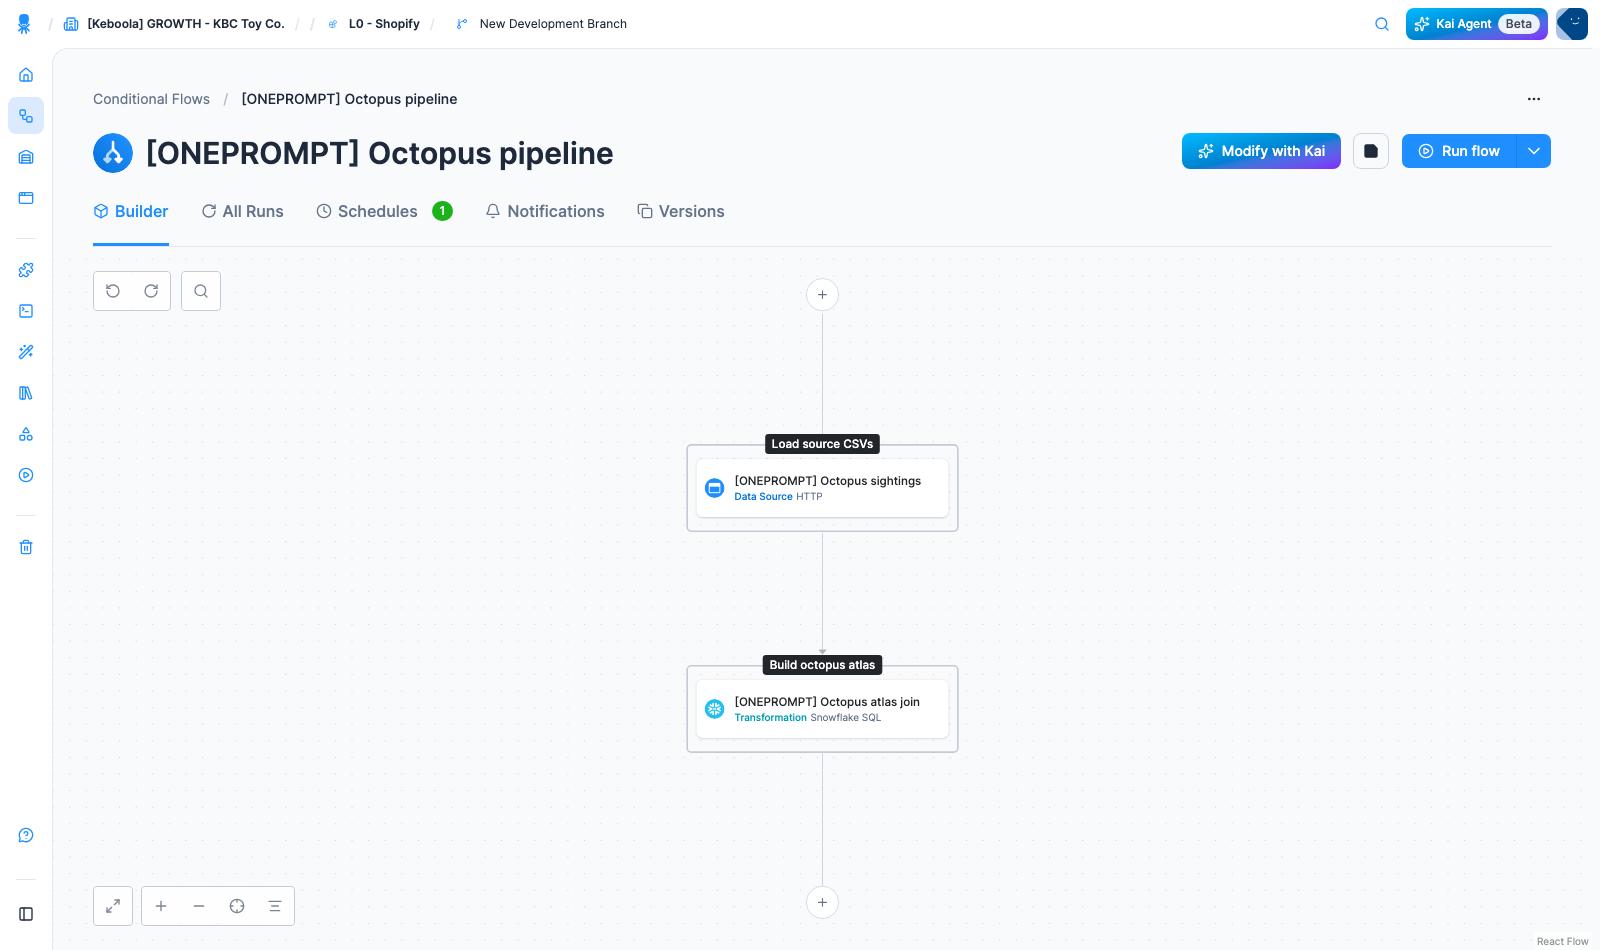
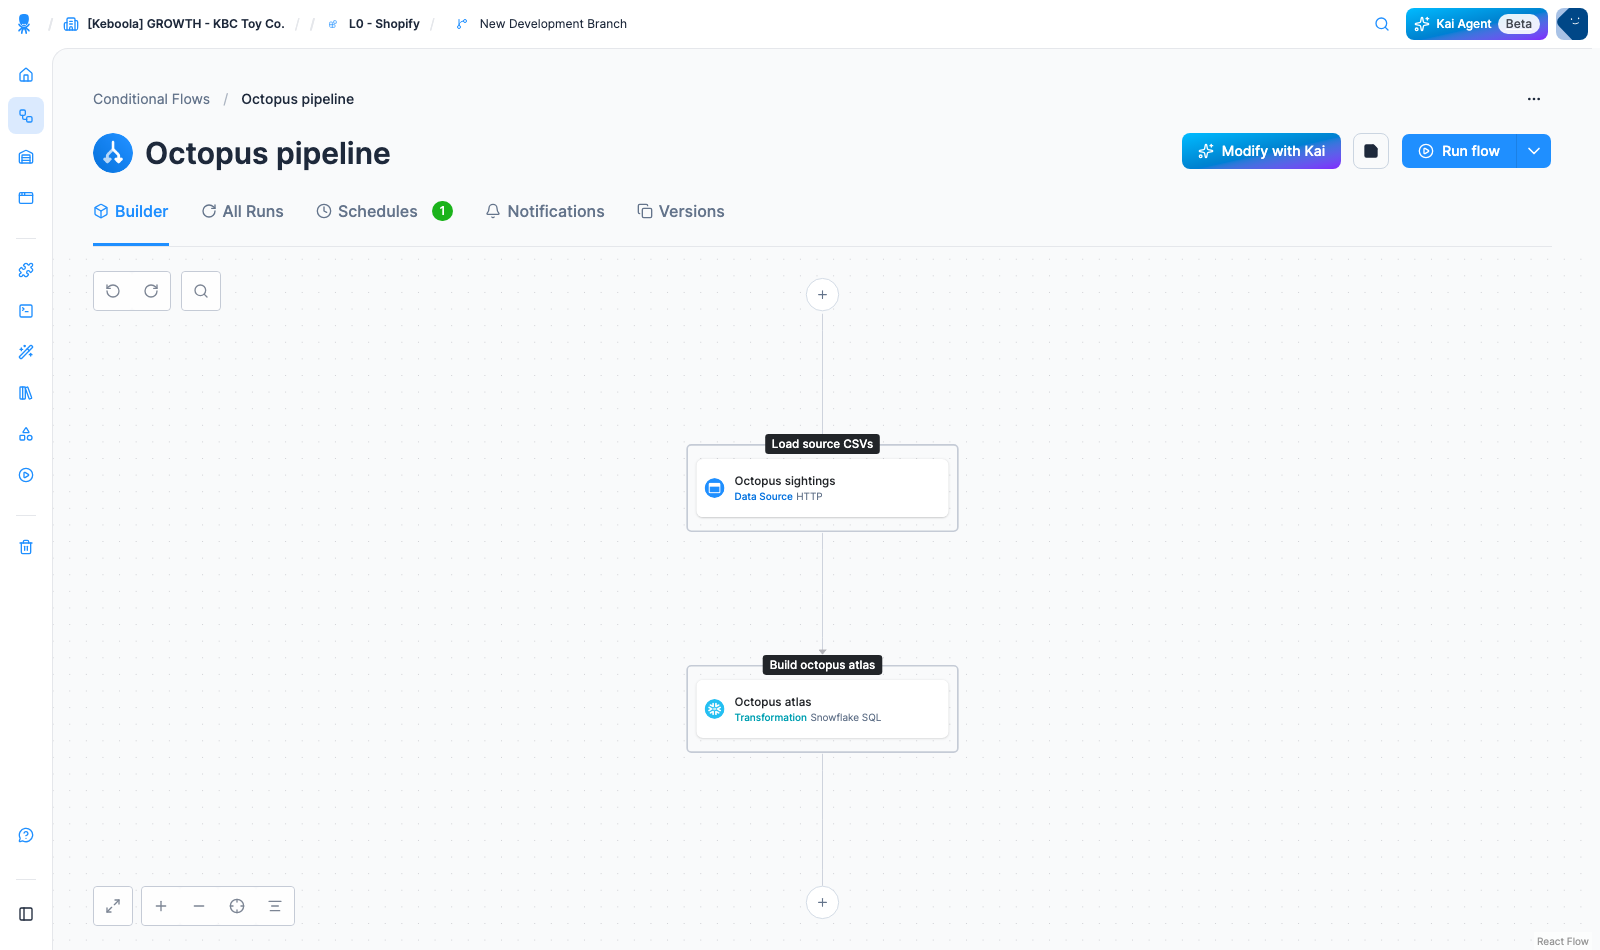
PRDCT-487: make the documented names match the screenshot
The live run used an [ONEPROMPT] prefix to avoid colliding with the
arc's objects, so the flow screenshot disagreed with the prompt the page
tells you to paste. Renamed the run's objects to plain names (Octopus
sightings / Octopus atlas / Octopus pipeline), reshot the flow, and
dropped the [TUTORIAL] prefix from the prompt and prose so all three
agree.

Changed region(s): [[0.0938, 0.0916, 0.4062, 0.1832], [0.4688, 0.7326, 0.5625, 0.7632], [0.4688, 0.4884, 0.5625, 0.5189]]

diff --git a/src/content/docs/getting-started/what-kai-built/index.md b/src/content/docs/getting-started/what-kai-built/index.md
@@ -23,7 +23,7 @@ Open **Storage**. There is a new bucket holding four tables, one per CSV:
 | `basins` | 13 | ocean basins as latitude/longitude boxes |
 
 The thing that fetched them is a **[data source connector](/components/extractors/)** — in
-**Components**, the configuration Kai named `[TUTORIAL] Octopus sightings`. Open it and note the
+**Components**, the configuration Kai named `Octopus sightings`. Open it and note the
 shape: **one** configuration with **four rows**, not four configurations. A row is one file with
 its own path; they share the configuration's base URL and its credentials, which is what makes a
 connector re-runnable.
@@ -56,7 +56,7 @@ Reading generated code is a skill worth having; this is the cheapest way to prac
 
 ## The flow — the pipeline, in order, on a clock
 
-**Flows** holds `[TUTORIAL] Octopus pipeline` with two phases:
+**Flows** holds `Octopus pipeline` with two phases:
 
 ![Screenshot - The flow Kai assembled, with its two phases and a schedule](/getting-started/one-prompt/flow.png)
 
@@ -69,7 +69,7 @@ now on the pipeline rebuilds itself every morning without you. Add yourself to
 
 ## The app — the answer, shareable
 
-**Apps** holds `[TUTORIAL] Octopus map` as a **draft**: a world map of all 10,000 sightings
+**Apps** holds `Octopus map` as a **draft**: a world map of all 10,000 sightings
 coloured by depth zone, with filters and a nearest-sighting search. Type your own coordinates and
 it answers the question the arc started with. From Prague — 50.08, 14.43 — the nearest recorded
 octopus is a musky octopus 495 km away, recorded in 1910.

diff --git a/src/content/docs/getting-started/one-prompt/index.md b/src/content/docs/getting-started/one-prompt/index.md
@@ -26,10 +26,10 @@ Open **Kai Agent** in the top bar and paste this:
 ```text
 Load the four CSVs from https://help.keboola.com/getting-started/ — occurrences.csv,
 species.csv, depth_zones.csv and basins.csv — into Storage as a single HTTP data source
-configuration called "[TUTORIAL] Octopus sightings". Then join them into one table called
+configuration called "Octopus sightings". Then join them into one table called
 octopus_atlas that has, for every sighting, its species display name, its ocean basin and its
-depth zone. Wire the loading and the joining into a flow called "[TUTORIAL] Octopus pipeline"
-that runs every day at 6am UTC. Finally build me a data app called "[TUTORIAL] Octopus map" — a
+depth zone. Wire the loading and the joining into a flow called "Octopus pipeline"
+that runs every day at 6am UTC. Finally build me a data app called "Octopus map" — a
 world map of every sighting coloured by depth zone, with a field where I type my own latitude
 and longitude and it tells me the nearest recorded sighting.
 ```
